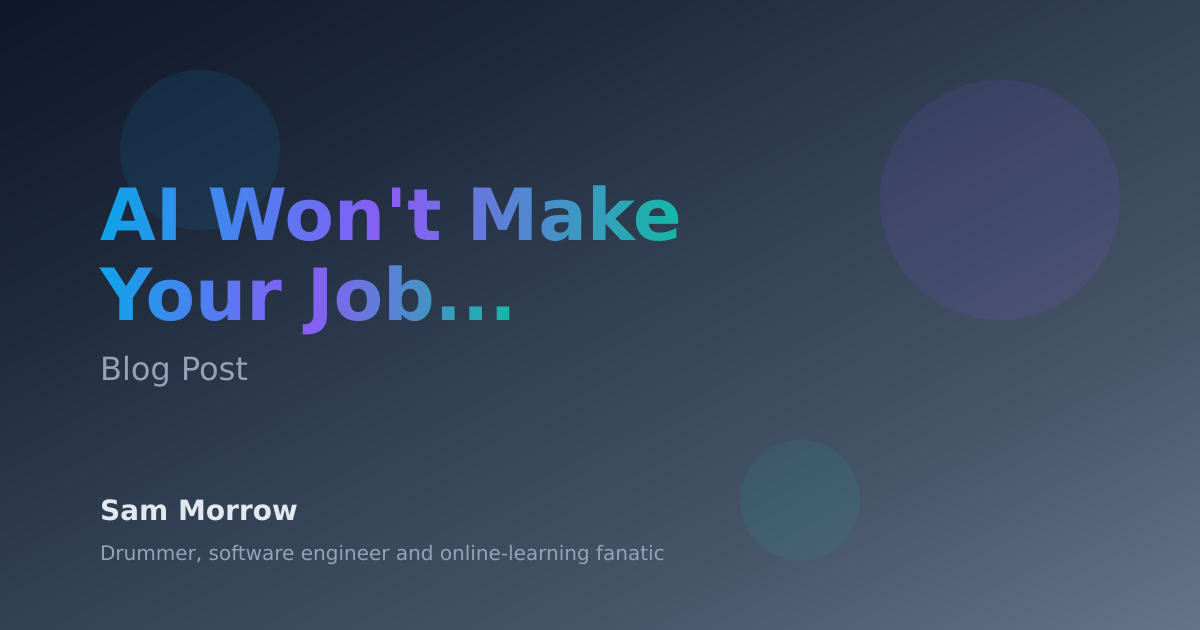
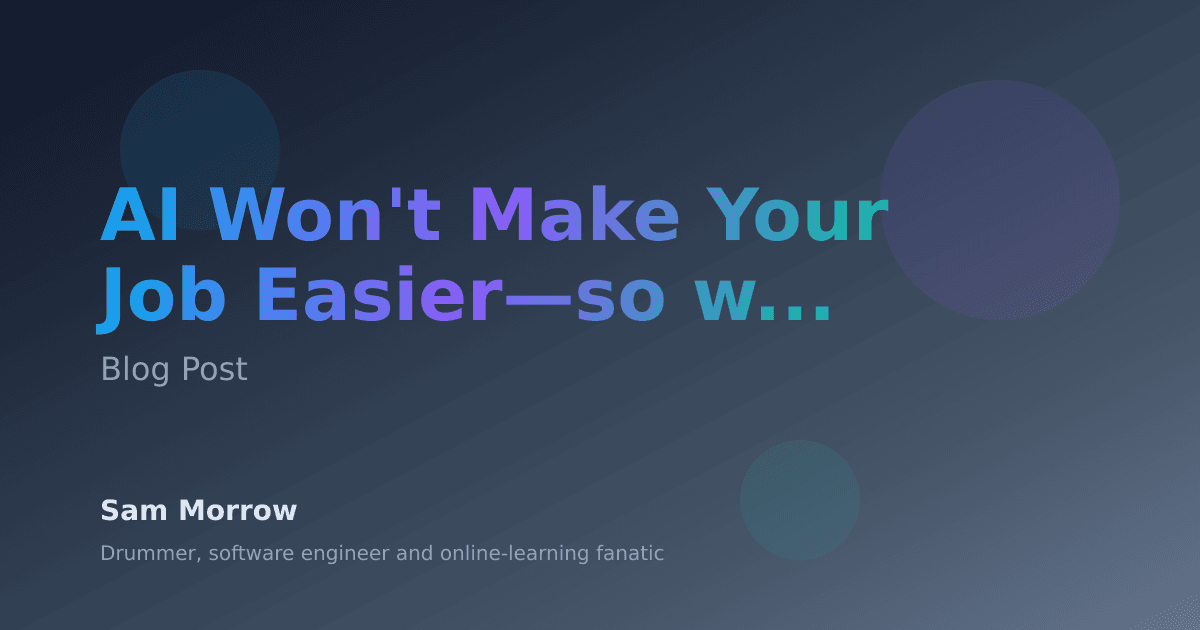
Implement OpenGraph image optimization with multiple sizes and enhanced metadata

Changed region(s): [[0.0617, 0.4222, 0.7092, 0.5429], [0.37, 0.3016, 0.74, 0.3921], [0.2158, 0.3016, 0.3392, 0.3921]]

diff --git a/pages/api/og-image.js b/pages/api/og-image.js
@@ -2,7 +2,10 @@
 import sharp from 'sharp';
 
 // Helper function to wrap text intelligently for OpenGraph images
-function wrapTitle(title, maxCharsPerLine = 15, maxLines = 2) {
+function wrapTitle(title, format = 'rectangular', maxLines = 2) {
+  // Adjust character limits based on format - more characters for rectangular format
+  const maxCharsPerLine = format === 'square' ? 12 : 18;
+  
   if (!title || title.length <= maxCharsPerLine) {
     return [title || ''];
   }
@@ -52,24 +55,54 @@ function wrapTitle(title, maxCharsPerLine = 15, maxLines = 2) {
 }
 
 export default async function handler(req, res) {
-  const { title = 'Sam Morrow', subtitle = 'Blog Post' } = req.query;
+  const { title = 'Sam Morrow', subtitle = 'Blog Post', format = 'rectangular' } = req.query;
   
-  // Wrap the title intelligently
-  const titleLines = wrapTitle(title);
+  // Determine dimensions based on format
+  const isSquare = format === 'square';
+  const width = 1200;
+  const height = isSquare ? 1200 : 630;
+  
+  // Wrap the title intelligently based on format
+  const titleLines = wrapTitle(title, format);
   const isMultiLine = titleLines.length > 1;
   
-  // Adjust positioning based on number of lines
-  const titleStartY = isMultiLine ? 240 : 280;
-  const subtitleY = isMultiLine ? 380 : 350;
+  // Adjust positioning and sizing based on format and number of lines
+  let titleStartY, subtitleY, titleFontSize, authorY, descY;
+  
+  if (isSquare) {
+    // Square format positioning - more vertical space
+    titleStartY = isMultiLine ? 320 : 400;
+    subtitleY = isMultiLine ? 520 : 480;
+    titleFontSize = isMultiLine ? 64 : 72;
+    authorY = 720;
+    descY = 760;
+  } else {
+    // Rectangular format positioning - same as before
+    titleStartY = isMultiLine ? 240 : 280;
+    subtitleY = isMultiLine ? 380 : 350;
+    titleFontSize = 72;
+    authorY = 520;
+    descY = 560;
+  }
   
   // Generate title text elements
   const titleElements = titleLines.map((line, index) => 
-    `<text x="100" y="${titleStartY + (index * 80)}" font-family="system-ui, -apple-system, sans-serif" font-size="72" font-weight="900" fill="url(#text)">${line}</text>`
+    `<text x="100" y="${titleStartY + (index * (titleFontSize + 8))}" font-family="system-ui, -apple-system, sans-serif" font-size="${titleFontSize}" font-weight="900" fill="url(#text)">${line}</text>`
   ).join('\n      ');
   
-  // Create a simple SVG image with the title
+  // Adjust decorative elements for square format - minimal elements for smaller file size
+  const decorativeElements = isSquare ? `
+    <circle cx="200" cy="200" r="40" fill="#0ea5e9" opacity="0.06"/>
+    <circle cx="1000" cy="300" r="60" fill="#8b5cf6" opacity="0.06"/>
+  ` : `
+    <circle cx="200" cy="150" r="80" fill="#0ea5e9" opacity="0.1"/>
+    <circle cx="1000" cy="200" r="120" fill="#8b5cf6" opacity="0.1"/>
+    <circle cx="800" cy="500" r="60" fill="#14b8a6" opacity="0.1"/>
+  `;
+  
+  // Create SVG with appropriate dimensions
   const svg = `
-    <svg width="1200" height="630" xmlns="http://www.w3.org/2000/svg">
+    <svg width="${width}" height="${height}" xmlns="http://www.w3.org/2000/svg">
       <defs>
         <linearGradient id="bg" x1="0%" y1="0%" x2="100%" y2="100%">
           <stop offset="0%" style="stop-color:#0f172a"/>
@@ -86,12 +119,10 @@ export default async function handler(req, res) {
       </defs>
       
       <!-- Background -->
-      <rect width="1200" height="630" fill="url(#bg)"/>
+      <rect width="${width}" height="${height}" fill="url(#bg)"/>
       
       <!-- Decorative elements -->
-      <circle cx="200" cy="150" r="80" fill="#0ea5e9" opacity="0.1"/>
-      <circle cx="1000" cy="200" r="120" fill="#8b5cf6" opacity="0.1"/>
-      <circle cx="800" cy="500" r="60" fill="#14b8a6" opacity="0.1"/>
+      ${decorativeElements}
       
       <!-- Main title -->
       ${titleElements}
@@ -102,26 +133,55 @@ export default async function handler(req, res) {
       </text>
       
       <!-- Author -->
-      <text x="100" y="520" font-family="system-ui, -apple-system, sans-serif" font-size="28" font-weight="600" fill="#e2e8f0">
+      <text x="100" y="${authorY}" font-family="system-ui, -apple-system, sans-serif" font-size="28" font-weight="600" fill="#e2e8f0">
         Sam Morrow
       </text>
       
       <!-- Description -->
-      <text x="100" y="560" font-family="system-ui, -apple-system, sans-serif" font-size="20" fill="#94a3b8">
+      <text x="100" y="${descY}" font-family="system-ui, -apple-system, sans-serif" font-size="20" fill="#94a3b8">
         Drummer, software engineer and online-learning fanatic
       </text>
     </svg>
   `;
 
   try {
-    // Convert SVG to PNG using Sharp
-    const pngBuffer = await sharp(Buffer.from(svg))
-      .png()
+    // Convert SVG to PNG using Sharp with optimization
+    // Use much more aggressive compression for square images to meet size limits
+    const initialQuality = isSquare ? 30 : 80;
+    let pngBuffer = await sharp(Buffer.from(svg))
+      .png({ 
+        compressionLevel: 9,
+        quality: initialQuality,
+        effort: 10
+      })
       .toBuffer();
+
+    // Check file size and optimize if needed
+    let finalBuffer = pngBuffer;
+    if (pngBuffer.length > 100 * 1024) { // 100KB limit
+      finalBuffer = await sharp(Buffer.from(svg))
+        .png({ 
+          compressionLevel: 9,
+          quality: isSquare ? 20 : 50,
+          effort: 10
+        })
+        .toBuffer();
+        
+      // If still too large, try even more aggressive compression
+      if (finalBuffer.length > 100 * 1024) {
+        finalBuffer = await sharp(Buffer.from(svg))
+          .png({ 
+            compressionLevel: 9,
+            quality: isSquare ? 15 : 40,
+            effort: 10
+          })
+          .toBuffer();
+      }
+    }
 
     res.setHeader('Content-Type', 'image/png');
     res.setHeader('Cache-Control', 'public, max-age=31536000, immutable');
-    res.status(200).send(pngBuffer);
+    res.status(200).send(finalBuffer);
   } catch (error) {
     console.error('Error generating OG image:', error);
     res.status(500).json({ error: 'Failed to generate image' });

diff --git a/components/SEO.js b/components/SEO.js
@@ -12,6 +12,12 @@ export default function SEO({
   const fullTitle = title === siteName ? title : `${title} | ${siteName}`;
   const fullUrl = url ? `https://sam-morrow.com${url}` : 'https://sam-morrow.com';
   const fullImageUrl = image.startsWith('http') ? image : `https://sam-morrow.com${image}`;
+  
+  // Generate rectangular image URL for primary use (guaranteed to be under 100KB)
+  const isApiImage = image.includes('/api/og-image') || (!image.startsWith('http') && !image.startsWith('/'));
+  const rectangularImageUrl = isApiImage ? 
+    `https://sam-morrow.com/api/og-image?title=${encodeURIComponent(title)}&format=rectangular` : 
+    fullImageUrl;
 
   return (
     <Head>
@@ -24,7 +30,13 @@ export default function SEO({
       <meta property="og:url" content={fullUrl} />
       <meta property="og:title" content={fullTitle} />
       <meta property="og:description" content={description} />
-      <meta property="og:image" content={fullImageUrl} />
+      
+      {/* Primary rectangular image for best compatibility */}
+      <meta property="og:image" content={rectangularImageUrl} />
+      <meta property="og:image:width" content="1200" />
+      <meta property="og:image:height" content="630" />
+      <meta property="og:image:alt" content={fullTitle} />
+      
       <meta property="og:site_name" content={siteName} />
       
       {/* Twitter */}
@@ -32,7 +44,8 @@ export default function SEO({
       <meta name="twitter:url" content={fullUrl} />
       <meta name="twitter:title" content={fullTitle} />
       <meta name="twitter:description" content={description} />
-      <meta name="twitter:image" content={fullImageUrl} />
+      <meta name="twitter:image" content={rectangularImageUrl} />
+      <meta name="twitter:image:alt" content={fullTitle} />
       
       {/* Additional meta tags for better SEO */}
       <meta name="viewport" content="width=device-width, initial-scale=1" />
